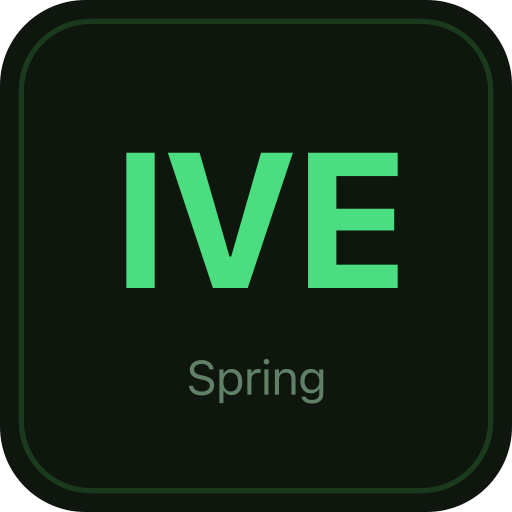
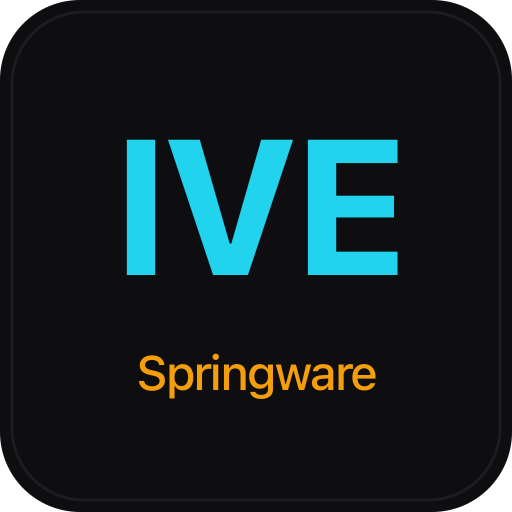
feat: 아이콘/패비콘 주제색 최신화 및 PWA 설치 버튼 추가
- 아이콘(SVG/PNG) 주제색 변경: cyan IVE + amber Springware
- 패비콘 재생성 (현재 주제색 적용)
- manifest.json 배경/테마색 통일 (#0e0e11)
- 로그인 페이지에 PWA 앱 설치 버튼 추가
  - Chrome/Edge: 시스템 설치 다이얼로그
  - iOS Safari: 홈 화면 추가 안내
  - Firefox PC: 미지원 안내
  - Firefox 모바일: 메뉴 안내

diff --git a/src/app/login/page.tsx b/src/app/login/page.tsx
@@ -30,9 +30,26 @@ export default function LoginPage() {
   const [oauthProviders, setOauthProviders] = useState<PublicOAuthProvider[]>([])
   const [oauthError, setOauthError] = useState<string | null>(null)
   const [oauthRedirecting, setOauthRedirecting] = useState<string | null>(null)
+  const [installPrompt, setInstallPrompt] = useState<any>(null)
+  const [isIos, setIsIos] = useState(false)
+  const [isFirefox, setIsFirefox] = useState(false)
+  const [isMobile, setIsMobile] = useState(false)
+  const [isStandalone, setIsStandalone] = useState(false)
+  const [showGuide, setShowGuide] = useState(false)
   const tAuth = useTranslations('auth')
 
   useEffect(() => {
+    // PWA 설치 프롬프트
+    const standalone = window.matchMedia('(display-mode: standalone)').matches || (navigator as any).standalone
+    setIsStandalone(!!standalone)
+    const ua = navigator.userAgent
+    const ios = /iPad|iPhone|iPod/.test(ua) || (ua.includes('Mac') && 'ontouchend' in document)
+    setIsIos(ios)
+    setIsFirefox(/Firefox/i.test(ua))
+    setIsMobile(/Android|iPhone|iPad|iPod|Mobile/i.test(ua))
+    const handler = (e: Event) => { e.preventDefault(); setInstallPrompt(e) }
+    window.addEventListener('beforeinstallprompt', handler)
+
     if (!localStorage.getItem('ive-intro-seen')) {
       setShowIntro(true)
     }
@@ -49,6 +66,7 @@ export default function LoginPage() {
       .then(r => r.ok ? r.json() : [])
       .then((data: PublicOAuthProvider[]) => setOauthProviders(Array.isArray(data) ? data : []))
       .catch(() => setOauthProviders([]))
+    return () => window.removeEventListener('beforeinstallprompt', handler)
   }, [searchParams])
 
   async function handleSubmit(e: React.FormEvent) {
@@ -189,7 +207,38 @@ export default function LoginPage() {
           <LanguageSwitcher />
         </div>
 
-        <div className="mt-6 flex justify-center">
+        {!isStandalone && (
+          <div className="mt-6 flex flex-col items-center gap-2">
+            <button
+              onClick={async () => {
+                if (installPrompt) {
+                  installPrompt.prompt()
+                  const { outcome } = await installPrompt.userChoice
+                  if (outcome === 'accepted') setInstallPrompt(null)
+                } else {
+                  setShowGuide(v => !v)
+                }
+              }}
+              className="flex items-center gap-2 bg-ive-cyan/10 border border-ive-cyan/30 text-ive-cyan font-bold py-2.5 px-5 rounded-lg text-sm hover:bg-ive-cyan/20 active:scale-95 transition-all"
+            >
+              <i className="fa-solid fa-download" />{tAuth('installApp')}
+            </button>
+            {showGuide && !installPrompt && (
+              <p className="text-xs text-ive-text-muted text-center">
+                {isIos
+                  ? <>{tAuth('installIosGuide', { icon: '' })}<i className="fa-solid fa-arrow-up-from-bracket mx-1 text-ive-cyan" /></>
+                  : isFirefox && !isMobile
+                  ? tAuth('installFirefoxGuide')
+                  : isFirefox && isMobile
+                  ? <>{tAuth('installFirefoxMobileGuide', { icon: '' })}<i className="fa-solid fa-ellipsis-vertical mx-1 text-ive-cyan" /></>
+                  : <>{tAuth('installChromeGuide', { icon: '' })}<i className="fa-solid fa-ellipsis-vertical mx-1 text-ive-cyan" /></>
+                }
+              </p>
+            )}
+          </div>
+        )}
+
+        <div className="mt-4 flex justify-center">
           <a href="https://www.producthunt.com/products/spring-ive?embed=true&utm_source=badge-featured&utm_medium=badge&utm_campaign=badge-spring-ive" target="_blank" rel="noopener noreferrer">
             <img alt="Springware IVE on Product Hunt" width="250" height="54" src="https://api.producthunt.com/widgets/embed-image/v1/featured.svg?post_id=1107541&theme=dark&t=1774503857741" />
           </a>
